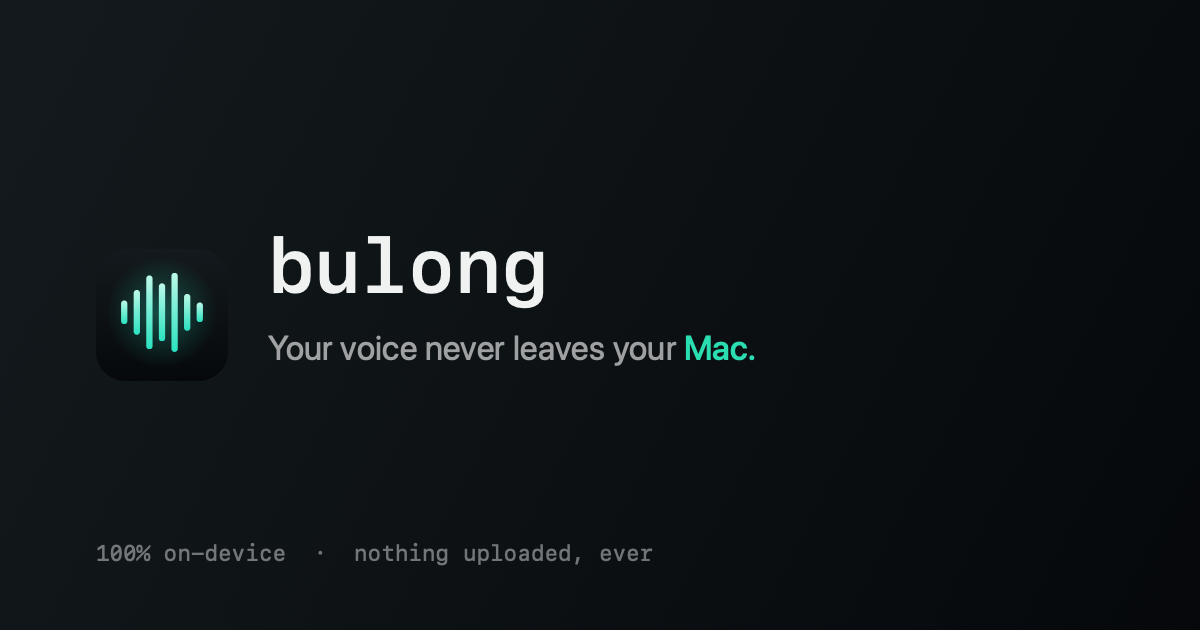
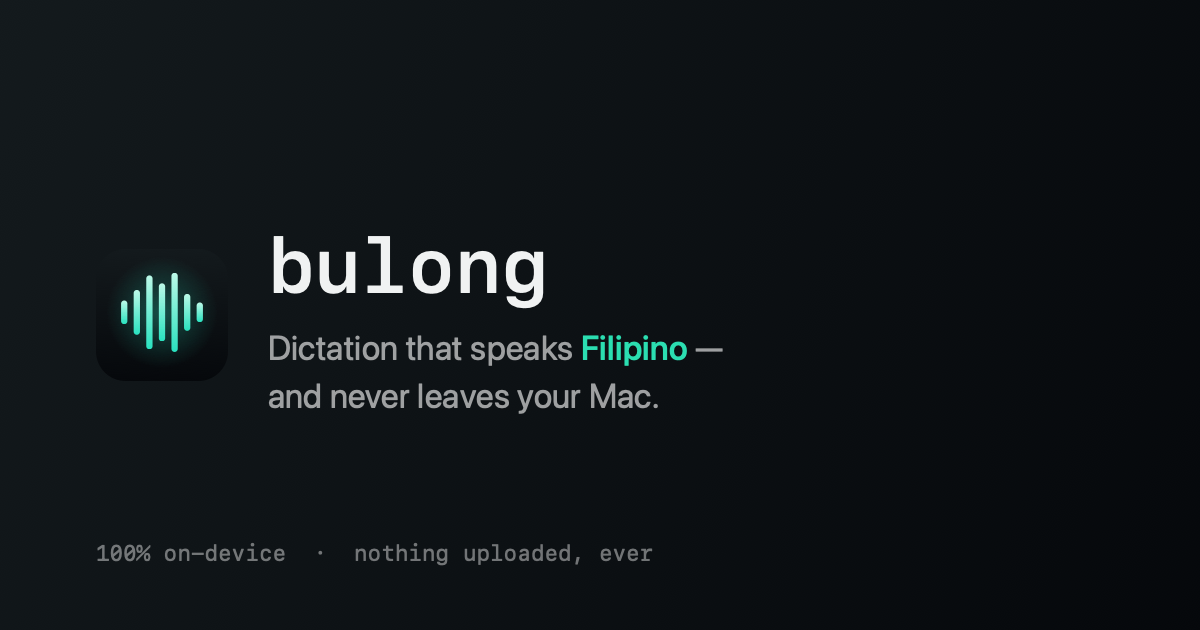
feat: Tagalog-forward landing rework — honesty critique fixes
Ship the critique pass on the Filipino/Taglish-wedge rework of bulong.app:

- Drop the unreceipted "Accuracy on accents & jargon" compare row; add the
  permitted market-fact footnote (Apple's improved dictation is English-only
  at launch) as the third contrast instead.
- Remove the Sparkle auto-update claim from the FAQ (not shipped; contradicted
  the one-network-request privacy card). Updates answer now promises only
  free 1.x updates.
- State the validated trial honestly: "14-day full free trial" on the price
  card and "Free for 14 days" in the hero; remove the unverified 14-day
  refund bullet and its FAQ item.
- Qualify the 6-8s Taglish latency figure: applies once the model is loaded;
  first dictation after launch is slower.
- Tighten receipt #3 verdict to annotation voice and count every deviation:
  mag-lunch -> mag-launch plus the dropped comma.
- Fix WCAG contrast on the "TYPED — UNEDITED" tag: mint at .78 alpha
  (~7:1 on ink0) instead of --mint-dim (~2.8:1).
- Let the last receipt span the row at <=900px so the miss card never
  orphans next to an empty cell.
- Bind the hero em dash to "Filipino" so no line ever opens with the dash.
- Regenerate the OG card with the new positioning ("Dictation that speaks
  Filipino — and never leaves your Mac.", Filipino in mint), keeping the
  100% on-device footer; render_og.swift updated to match.

Placeholders intact: #download/#pricing anchors, hello@bulong.app, three
data-price spans at $29. No new external resources.

Changed region(s): [[0.2158, 0.6032, 0.555, 0.6635], [0.2158, 0.5127, 0.6475, 0.573]]

diff --git a/site/index.html b/site/index.html
@@ -3,8 +3,8 @@
 <head>
   <meta charset="utf-8">
   <meta name="viewport" content="width=device-width, initial-scale=1">
-  <title>Bulong — private, on-device dictation for macOS</title>
-  <meta name="description" content="Press a hotkey in any app, speak, and the words appear. Fast, accurate dictation that runs entirely on your Mac — no cloud, no account, no telemetry.">
+  <title>Bulong — Filipino &amp; Taglish dictation for macOS, on-device</title>
+  <meta name="description" content="Press a key, talk, and clean text lands in any app — English, Tagalog, or Taglish mid-sentence. Runs entirely on your Mac: no cloud, no account, no telemetry. $29 once.">
   <meta name="theme-color" content="#07090B">
   <link rel="canonical" href="https://bulong.app/">
   <link rel="icon" type="image/png" href="assets/icon.png">
@@ -12,14 +12,14 @@
   <meta property="og:type" content="website">
   <meta property="og:site_name" content="Bulong">
   <meta property="og:url" content="https://bulong.app/">
-  <meta property="og:title" content="Bulong — private, on-device dictation for macOS">
-  <meta property="og:description" content="Fast, accurate dictation that runs entirely on your Mac — no cloud, no account, no telemetry.">
+  <meta property="og:title" content="Bulong — Filipino &amp; Taglish dictation for macOS, on-device">
+  <meta property="og:description" content="Dictation that speaks Filipino — and never leaves your Mac. Real, unedited Taglish results. No cloud, no account, $29 once.">
   <meta property="og:image" content="https://bulong.app/assets/og.png">
   <meta property="og:image:width" content="1200">
   <meta property="og:image:height" content="630">
   <meta name="twitter:card" content="summary_large_image">
-  <meta name="twitter:title" content="Bulong — private, on-device dictation for macOS">
-  <meta name="twitter:description" content="Fast, accurate dictation that runs entirely on your Mac — no cloud, no account, no telemetry.">
+  <meta name="twitter:title" content="Bulong — Filipino &amp; Taglish dictation for macOS, on-device">
+  <meta name="twitter:description" content="Dictation that speaks Filipino — and never leaves your Mac. Real, unedited Taglish results. No cloud, no account, $29 once.">
   <meta name="twitter:image" content="https://bulong.app/assets/og.png">
   <link rel="stylesheet" href="styles.css">
   <noscript><style>@media (max-width:720px){.nav-links{display:flex!important}.nav-toggle{display:none!important}}</style></noscript>
@@ -62,8 +62,8 @@
     <section class="hero" id="top">
       <div class="wrap hero-inner">
         <p class="badge mono"><span class="badge-dot" aria-hidden="true"></span>100% on-device · nothing uploaded, ever</p>
-        <h1>Your voice never leaves your <span class="mint">Mac</span>.</h1>
-        <p class="hero-sub">Press a hotkey in any app, speak, and the words appear. Fast, accurate dictation that runs entirely on your Mac — no cloud, no account, no telemetry.</p>
+        <h1>Dictation that speaks <span class="mint">Filipino</span>&nbsp;— and never leaves your Mac.</h1>
+        <p class="hero-sub">Press a key, talk, and clean text lands in any app — English, Tagalog, or Taglish mid-sentence. Everything is transcribed on your Mac: no cloud, no account, no telemetry.</p>
         <div class="hero-cta">
           <a class="btn btn-primary" href="#pricing">
             <svg class="btn-icon" viewBox="0 0 24 24" aria-hidden="true" focusable="false">
@@ -71,23 +71,72 @@
             </svg>
             Download for macOS
           </a>
-          <span class="mono price">Free to try · <span data-price>$29</span> once</span>
+          <span class="mono price">Free for 14 days · <span data-price>$29</span> once</span>
         </div>
         <p class="mono req">Apple Silicon · macOS 14+</p>
-        <figure class="hud" role="img" aria-label="Bulong dictation bar: a glowing orb, the word Listening with the live partial transcript “…moved to thursday”, an animated waveform, and an on-device badge.">
+        <figure class="hud" role="img" aria-label="Bulong dictation bar: a glowing orb, the word Listening with the live partial transcript “…na-approve na ba yung leave”, an animated waveform, an on-device badge, and a Tagalog language badge.">
           <div class="hud-inner">
             <span class="orb" aria-hidden="true"></span>
             <div class="hud-text">
               <span class="hud-title">Listening</span>
-              <span class="hud-partial mono">…moved to thursday</span>
+              <span class="hud-partial mono">…na-approve na ba yung leave</span>
             </div>
             <div class="waveform" aria-hidden="true"><i></i><i></i><i></i><i></i><i></i><i></i><i></i></div>
             <div class="hud-pills" aria-hidden="true">
               <span class="hud-pill mono">ON&#8288;-&#8288;DEVICE</span>
-              <span class="hud-pill hud-pill--dim mono">EN</span>
+              <span class="hud-pill hud-pill--dim mono">TL</span>
             </div>
           </div>
         </figure>
+      </div>
+    </section>
+
+    <section class="section" id="receipts">
+      <div class="wrap">
+        <div class="section-head">
+          <span class="eyebrow">Receipts</span>
+          <h2>It actually types Taglish.</h2>
+          <p>Say the sentence the way you'd actually say it &mdash; half English, half Tagalog &mdash; and this is what lands. Three real dictations, shown unedited, misses included.</p>
+        </div>
+        <div class="receipts">
+          <article class="receipt card lift">
+            <div>
+              <span class="receipt-tag mono">Said</span>
+              <p class="receipt-said" lang="tl">&ldquo;Na-approve na ba yung leave request ko for next week?&rdquo;</p>
+            </div>
+            <div class="receipt-out">
+              <span class="receipt-tag mono">Typed &mdash; unedited</span>
+              <p class="receipt-typed" lang="tl">Na-approve na ba yung leave request ko for next week?</p>
+            </div>
+            <p class="receipt-verdict mono">exact &mdash; hyphen and question mark included</p>
+          </article>
+          <article class="receipt card lift">
+            <div>
+              <span class="receipt-tag mono">Said</span>
+              <p class="receipt-said" lang="tl">&ldquo;Pwede mo ba i-double check yung invoice? Baka may mali sa total.&rdquo;</p>
+            </div>
+            <div class="receipt-out">
+              <span class="receipt-tag mono">Typed &mdash; unedited</span>
+              <p class="receipt-typed" lang="tl">Pwede mo ba i-double check yung invoice? Baka may mali sa total.</p>
+            </div>
+            <p class="receipt-verdict mono">exact &mdash; &ldquo;i-double check&rdquo; intact</p>
+          </article>
+          <article class="receipt card lift">
+            <div>
+              <span class="receipt-tag mono">Said</span>
+              <p class="receipt-said" lang="tl">&ldquo;Send mo na lang sa akin yung report bago mag-lunch, please.&rdquo;</p>
+            </div>
+            <div class="receipt-out">
+              <span class="receipt-tag mono">Typed &mdash; unedited</span>
+              <p class="receipt-typed" lang="tl">Send mo na lang sa akin yung report bago <span class="receipt-miss">mag-launch</span> please.</p>
+            </div>
+            <p class="receipt-verdict mono">one slip &mdash; &ldquo;mag-lunch&rdquo; came out &ldquo;mag-launch&rdquo; (comma dropped too)</p>
+          </article>
+        </div>
+        <div class="receipts-foot">
+          <p>Real, unedited results from the developer's own testing &mdash; one voice, one mic, his own Mac. Not a benchmark. Transcribed fully on-device, so his voice never left his Mac; neither will yours.</p>
+          <p>&ldquo;Bulong&rdquo; is Tagalog for <em>whisper</em>. It's built by a Filipino developer who code-switches all day &mdash; Taglish was never an afterthought.</p>
+        </div>
       </div>
     </section>
 
@@ -133,7 +182,7 @@
           <li class="step card lift">
             <span class="step-num mono" aria-hidden="true">2</span>
             <h3>Speak naturally</h3>
-            <p>Hold to talk, or toggle recording on and off.</p>
+            <p>Hold to talk, or toggle &mdash; in English, Tagalog, or both in one sentence.</p>
           </li>
           <li class="step card lift">
             <span class="step-num mono" aria-hidden="true">3</span>
@@ -212,7 +261,7 @@
           <article class="feature card lift">
             <svg class="feature-icon" viewBox="0 0 24 24" aria-hidden="true" focusable="false"><circle cx="12" cy="12" r="9"/><path d="M3 12h18M12 3c2.6 2.4 4 5.6 4 9s-1.4 6.6-4 9c-2.6-2.4-4-5.6-4-9s1.4-6.6 4-9z"/></svg>
             <h3>10 languages incl. Filipino</h3>
-            <p>Dictate in 10 languages, Tagalog included.</p>
+            <p>Dictate in 10 languages &mdash; Filipino included, code-switching and all.</p>
           </article>
           <article class="feature card lift">
             <svg class="feature-icon" viewBox="0 0 24 24" aria-hidden="true" focusable="false"><path d="M3.5 5.5h9M8 3.5v2M11 5.5c0 4.4-3.2 8-7.5 9M6 9c.6 2.4 2.6 4.3 5 5"/><path d="M12.5 20.5l4-9 4 9M14.2 17h4.6"/></svg>
@@ -236,7 +285,7 @@
         </div>
         <div class="table-scroll">
           <table class="compare-table">
-            <caption class="visually-hidden">How Bulong compares with a typical cloud dictation app and Apple's built-in dictation, across where audio goes, price, whether an account is required, offline support, and history.</caption>
+            <caption class="visually-hidden">How Bulong compares with a typical cloud dictation app and Apple's built-in dictation, across where audio goes, price, whether an account is required, offline support, Filipino and Taglish support, and history.</caption>
             <thead>
               <tr>
                 <td></td>
@@ -271,10 +320,10 @@
                 <td class="yes"><svg class="check" viewBox="0 0 24 24" aria-hidden="true" focusable="false"><path d="M5 12.5l4 4 10-10"/></svg>Yes</td>
               </tr>
               <tr>
-                <th scope="row">Accuracy on accents &amp; jargon</th>
-                <td class="yes"><svg class="check" viewBox="0 0 24 24" aria-hidden="true" focusable="false"><path d="M5 12.5l4 4 10-10"/></svg>Strong</td>
-                <td>Strong</td>
-                <td>Basic</td>
+                <th scope="row">Filipino (Tagalog) &amp; Taglish</th>
+                <td class="yes"><svg class="check" viewBox="0 0 24 24" aria-hidden="true" focusable="false"><path d="M5 12.5l4 4 10-10"/></svg>Yes, on-device</td>
+                <td>Varies</td>
+                <td>Varies</td>
               </tr>
               <tr>
                 <th scope="row">Remappable hotkey &amp; push-to-talk</th>
@@ -291,6 +340,7 @@
             </tbody>
           </table>
         </div>
+        <p class="compare-foot">Apple has announced improved macOS dictation &mdash; launching English-only.</p>
       </div>
     </section>
 
@@ -304,9 +354,8 @@
           <p class="price-amount"><span class="price-num tabular" data-price>$29</span><span class="price-once">once</span></p>
           <ul class="price-list">
             <li><svg class="check" viewBox="0 0 24 24" aria-hidden="true" focusable="false"><path d="M5 12.5l4 4 10-10"/></svg>One Mac</li>
-            <li><svg class="check" viewBox="0 0 24 24" aria-hidden="true" focusable="false"><path d="M5 12.5l4 4 10-10"/></svg>Free trial before you buy</li>
+            <li><svg class="check" viewBox="0 0 24 24" aria-hidden="true" focusable="false"><path d="M5 12.5l4 4 10-10"/></svg>14-day full free trial</li>
             <li><svg class="check" viewBox="0 0 24 24" aria-hidden="true" focusable="false"><path d="M5 12.5l4 4 10-10"/></svg>Free updates throughout 1.x</li>
-            <li><svg class="check" viewBox="0 0 24 24" aria-hidden="true" focusable="false"><path d="M5 12.5l4 4 10-10"/></svg>14-day refund</li>
           </ul>
           <a class="btn btn-primary price-cta" href="#download">
             <svg class="btn-icon" viewBox="0 0 24 24" aria-hidden="true" focusable="false"><path d="M12 3v12m0 0l-4.5-4.5M12 15l4.5-4.5M5 20h14"/></svg>
@@ -329,6 +378,10 @@
             <div class="faq-body"><div><p>Yes. Once the speech model has downloaded, Bulong needs no network at all. Turn off your Wi-Fi and it still transcribes.</p></div></div>
           </details>
           <details class="faq-item">
+            <summary>How good is the Taglish, really?</summary>
+            <div class="faq-body"><div><p>Good enough to publish the raw results. In the developer's own testing &mdash; one voice, one mic, real work sentences &mdash; heavy code-switching came out at roughly 95% word accuracy, misses included. The unedited dictations are further up this page. Set the language to Filipino, speak the way you actually speak, and expect a sentence to land in about 6&ndash;8 seconds once the model is loaded &mdash; the first dictation after launch takes longer while the model warms up.</p></div></div>
+          </details>
+          <details class="faq-item">
             <summary>Which Macs does it run on?</summary>
             <div class="faq-body"><div><p>Any Apple Silicon Mac (M1 or later) running macOS 14 or newer.</p></div></div>
           </details>
@@ -345,16 +398,12 @@
             <div class="faq-body"><div><p>Any app with a text field. Bulong types the result into whatever window is focused.</p></div></div>
           </details>
           <details class="faq-item">
-            <summary>What about refunds?</summary>
-            <div class="faq-body"><div><p>14 days, no questions asked.</p></div></div>
-          </details>
-          <details class="faq-item">
             <summary>How do updates work?</summary>
-            <div class="faq-body"><div><p>Automatically, via Sparkle. Free updates throughout the 1.x series are included in the price.</p></div></div>
+            <div class="faq-body"><div><p>Free updates throughout the 1.x series are included in the price.</p></div></div>
           </details>
           <details class="faq-item">
             <summary>Why &ldquo;Bulong&rdquo;?</summary>
-            <div class="faq-body"><div><p>It's Tagalog for &ldquo;whisper.&rdquo;</p></div></div>
+            <div class="faq-body"><div><p>It's Tagalog for &ldquo;whisper.&rdquo; Bulong is built by a Filipino developer who dictates in Taglish every day &mdash; the name and the language support come from the same place.</p></div></div>
           </details>
         </div>
       </div>
@@ -362,7 +411,7 @@
 
     <section class="section cta-final" id="download">
       <div class="wrap cta-final-inner">
-        <h2>Try it. Then turn off your Wi-Fi.</h2>
+        <h2>Try it in Taglish. Then turn off your Wi-Fi.</h2>
         <div class="hero-cta">
           <a class="btn btn-primary" href="#download">
             <svg class="btn-icon" viewBox="0 0 24 24" aria-hidden="true" focusable="false"><path d="M12 3v12m0 0l-4.5-4.5M12 15l4.5-4.5M5 20h14"/></svg>
@@ -390,7 +439,7 @@
           </svg>
           <span>bulong</span>
         </a>
-        <p class="footer-tag">Private, on-device dictation for macOS.</p>
+        <p class="footer-tag">Private, on-device dictation for macOS &mdash; in English, Filipino, and Taglish.</p>
       </div>
       <nav class="footer-links" aria-label="Footer">
         <ul>

diff --git a/site/styles.css b/site/styles.css
@@ -82,7 +82,7 @@ p{text-wrap:pretty;color:var(--text-2)}
 .btn-icon{width:18px;height:18px;flex:none;fill:none;stroke:currentColor;stroke-width:1.8;stroke-linecap:round;stroke-linejoin:round}
 .badge{display:inline-block;padding:7px 15px;border:0.5px solid var(--hairline-strong);border-radius:var(--pill);font-size:12.5px;line-height:1.45;color:var(--text-2);background:var(--ink1);text-align:center}
 .badge-dot{display:inline-block;width:7px;height:7px;border-radius:50%;background:var(--mint);box-shadow:0 0 10px rgba(43,222,177,.9);vertical-align:middle;margin-right:8px;position:relative;top:-1px}
-.hero h1{margin-top:26px;max-width:15ch}
+.hero h1{margin-top:26px;max-width:22ch}
 .hero-sub{margin-top:20px;max-width:50ch;font-size:clamp(16px,2vw,18px);text-wrap:balance}
 .hero-cta{display:flex;flex-wrap:wrap;align-items:center;justify-content:center;gap:18px;margin-top:34px}
 .price{font-size:14px;color:var(--text-2)}
@@ -123,6 +123,22 @@ p{text-wrap:pretty;color:var(--text-2)}
 }
 @keyframes breathe{0%,100%{box-shadow:0 0 18px rgba(43,222,177,.35);transform:scale(1)}50%{box-shadow:0 0 30px rgba(43,222,177,.6);transform:scale(1.06)}}
 @keyframes wave{0%,100%{transform:scaleY(.5)}50%{transform:scaleY(1)}}
+
+/* ---- Taglish receipts ---- */
+.receipts{display:grid;grid-template-columns:repeat(auto-fit,minmax(270px,1fr));gap:16px}
+.receipt{display:flex;flex-direction:column;gap:16px;padding:22px 24px;text-align:left}
+.receipt-tag{display:block;font-size:11px;letter-spacing:.08em;text-transform:uppercase;color:var(--text-3);margin-bottom:6px}
+.receipt-said{font-size:15px;color:var(--text-2)}
+.receipt-out{background:var(--ink0);border:0.5px solid var(--hairline);border-radius:var(--radius-ctrl);padding:12px 14px}
+.receipt-out .receipt-tag{color:rgba(43,222,177,.78)}
+.receipt-typed{font-family:var(--font-mono);font-size:13.5px;line-height:1.6;color:var(--mint-text)}
+.receipt-miss{color:var(--coral)}
+.receipt-verdict{margin-top:auto;padding-top:14px;border-top:0.5px solid var(--hairline);font-size:12px;color:var(--text-3)}
+.receipts-foot{margin-top:28px;text-align:center}
+.receipts-foot p{font-size:14px;color:var(--text-3);max-width:64ch;margin-inline:auto;text-wrap:balance}
+.receipts-foot p+p{margin-top:10px}
+.receipts-foot em{font-style:normal;color:var(--text-2)}
+@media (max-width:900px){.receipts .receipt:last-child{grid-column:1/-1}}
 
 /* ---- Section header + cards ---- */
 .section-head{max-width:640px;margin-inline:auto;text-align:center;margin-bottom:clamp(32px,5vw,52px)}
@@ -185,6 +201,7 @@ p{text-wrap:pretty;color:var(--text-2)}
 .compare-table thead th:nth-child(2),.compare-table tbody td:nth-child(2){background:rgba(43,222,177,.06)}
 .compare-table thead th:nth-child(2){color:var(--mint-text)}
 .compare-table tbody tr:last-child th,.compare-table tbody tr:last-child td{border-bottom:0}
+.compare-foot{margin-top:14px;font-size:13px;color:var(--text-3);text-align:center}
 
 /* ---- Pricing ---- */
 .price-card{max-width:420px;margin-inline:auto;padding:clamp(28px,4vw,40px);text-align:center}

diff --git a/script/render_og.swift b/script/render_og.swift
@@ -82,12 +82,16 @@ let wordSize = word.size()
 let wordY = blockMidY + 6   // baseline block: wordmark sits just above center
 draw(word, at: CGPoint(x: textX, y: wordY))
 
-// Tagline: "Your voice never leaves your Mac." with Mac in mint
+// Tagline: "Dictation that speaks Filipino — and never leaves your Mac." with Filipino in mint
 let tagFont = NSFont.systemFont(ofSize: 34, weight: .regular)
-let tag = NSMutableAttributedString(string: "Your voice never leaves your ",
+let tag1 = NSMutableAttributedString(string: "Dictation that speaks ",
     attributes: [.font: tagFont, .foregroundColor: text2NS])
-tag.append(NSAttributedString(string: "Mac.", attributes: [.font: NSFont.systemFont(ofSize: 34, weight: .medium), .foregroundColor: mintNS]))
-draw(tag, at: CGPoint(x: textX, y: wordY - 58))
+tag1.append(NSAttributedString(string: "Filipino", attributes: [.font: NSFont.systemFont(ofSize: 34, weight: .medium), .foregroundColor: mintNS]))
+tag1.append(NSAttributedString(string: " —", attributes: [.font: tagFont, .foregroundColor: text2NS]))
+draw(tag1, at: CGPoint(x: textX, y: wordY - 58))
+let tag2 = NSAttributedString(string: "and never leaves your Mac.",
+    attributes: [.font: tagFont, .foregroundColor: text2NS])
+draw(tag2, at: CGPoint(x: textX, y: wordY - 106))
 
 // Bottom mono line
 let footFont = NSFont.monospacedSystemFont(ofSize: 22, weight: .regular)
